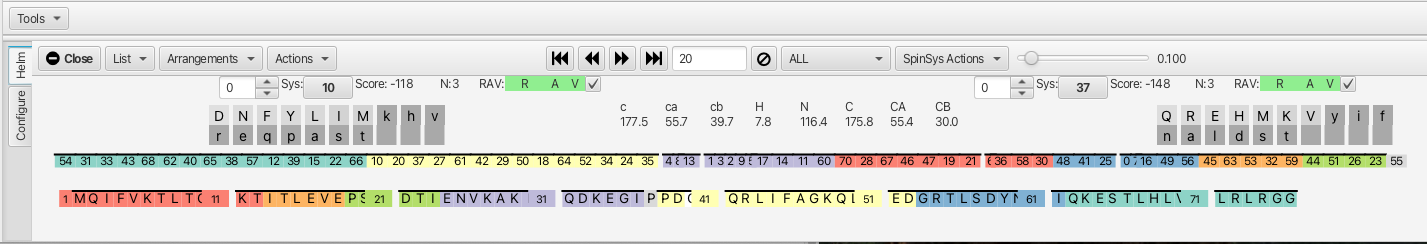
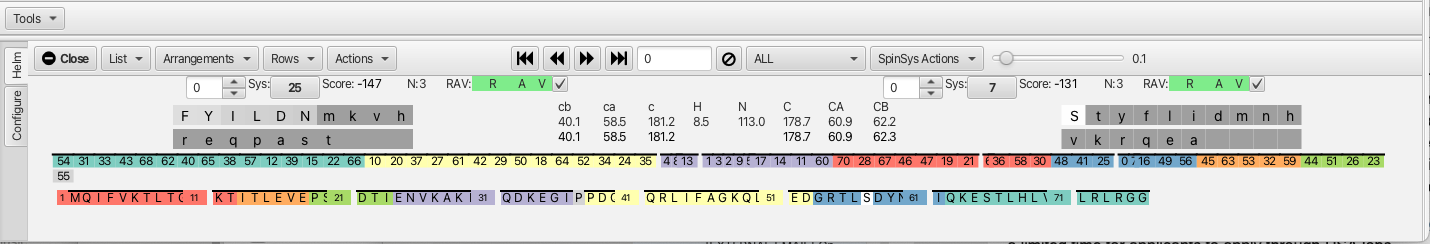
update runabout menus

diff --git a/pages/v1/01.analyst/08.tools/02.runabout/01.menus/docs.md b/pages/v1/01.analyst/08.tools/02.runabout/01.menus/docs.md
@@ -93,24 +93,36 @@ forward and back arrows. Choices are set to the active peak lists being used in 
 	assignment process.
 	1. HC arranges two columns of experiments, left side is HNCOcaCB, HNCOCA, HNCO, right side
 	HNCACB, HNCA, HNCACO with X-axis being the amide proton view of residue *i* and the Y-axis 	gives views of the carbon shifts. The left column show peaks belonging to residue *i*-1 	while the right column show peaks belonging to both residue *i* and *i*-1.
-	2. HCij arranges six columns of experiments using the same views and experiments as the HC
+	2. HCHali provides a new row for experiemnts that provide a H aliphatic dimension such as 
+	HBHANH or HBHAcoNH experiments. A H aliphatic axis is added.
+	3. HCij arranges six columns of experiments using the same views and experiments as the HC
 	arrangement described aove. The leftmost column displays crosspeaks belonging to the
 	spinsystem *i*-1 (HN, CO, CA, CB) whereas the second column from left displays the 	crosspeaks belonging to both residue *i*-1 and residue *i *, both columns based on the 	amide proton shift of residue *i*-1. The middle two columns display similar information
 	but based on the amide proton shift of residue *i*. The rightmost two columns displays
 	crosspeaks belonging to residue *i* as well as residue *i*+1 (residue *j*) based on the
 	chemical shift of the amide proton for residue *j*.
-	3. HCij_CACB arranges six columns as the HCij arrangement but omits the HNCO and HNCACO 
-	experiments so as to concentrate the view on only the CA and CB crosspeaks.
-	4. HCij_CB focuses the view on the HNCOcaCB and the HNCACB experiments.
-	5. HCij_CA focuses the view on the HNCOCA and HNCA experiments.
-	6. HCij_C focuses the view on the HNCO and HNCACO experiments.
+	4. HCHali_hij provides a new row to the HCij arrangement which provides a H aliphatic 
+	chemcial shift axis.
 	7. HCNC affords the same views as in the HC arrangement but supplements each with the 
 	view from the nitrogen shift of residue *i*. This arrangement affords a view where the 
-	notrogen chemical shift allows for separation of crosspeaks that may be overlapped in the
+	nitrogen chemical shift allows for separation of crosspeaks that may be overlapped in the
 	amide proton view.
 	8. HN provides the HN plane centered at the proton and nitrogen shifts for residue *i* from 	the same experiment set as in the HC arrangement.
 	9. HNfull provides an overlay of all of the HN planes for the each experiment. This view
 	is useful for establishing the contour levels and general insoection of the data.
+
+**Rows** Menu
+
+:	The "rows" Menu works in conjunction with the "Arrangements" Menu in providing toggles
+	for selecting the Y axis nucleus choices. The choices add or remove various views allowing
+	the user to simplify or focus on certain views. Choices are:
+
+	1. C toggles on or off any row which has the Y axis set to the carbonyl chemical shift 
+	range.
+	2. Hali toggles on or off any row which has the Y axis set to the aliphatic H chemical
+	shift range.
+	3. CA toggles on or off any row which has the Y axis set to the CA chemcial shift range.
+	4. CB toggles on or off any row which has the Y axis set to the CB chemcial shift range.
 
 **Actions** Menu
 
@@ -138,38 +150,27 @@ forward and back arrows. Choices are set to the active peak lists being used in 
 	deleted from the list. The increase in tolerance value minimizes the risk of erroneously
 	removing peaks that are valid but slightly misalligned.
 
-	4. Assemble: This action will group together peaks from the peak lists that contain the
-	same amide H and N chemical shifts. This effectively determines which peaks in different
-	peak lists belong to the same residue as well as determine which peaks may be inter-
-	residue as opposed to intra-residue for certain peak lists. The peaks are "clustered" 
-	based on the tolerance values set up for each list. Each cluster must also have only one
-	peak from the reference list and this peak number is used as the cluster identifier. The 
-	"Assemble" action also populates a new "spinsystems" entry into the "List" menu. Choosing
-	the spinsystem option n the "List" menu displays a series of letters above each dataset
-	that correspond to the expected correlations for that experiment and whether or not
-	the correct number has been found. A green bar and the number 0 indicate that all expected
-	correlations have been found whereas a red bar under a given correlation (i.e. the cb-1)
-	and the number -1 indicates that the C-beta correlation for the *i*-1 pattern is missing
-	from the HNCACB spectrum for the *i*-1 column. The number may also be positive meaning 
-	RunAboutX has found more than the expected correlatons. Right clicking on any crosspeak
-	brings up a pulldown menu that allows for either opening the peak inspector or gives the
-	best guess as to the pattern identity of the crosspeak, i.e. the CB of residue *i*-1.
-	
+	4. Assemble Spin System: This action will group together peaks from peaklists that contain 
+	the same amide H and N chemical shifts as found in the HNCO experiment. This effectively 
+	determines which peaks in different peak lists belong to the same residue or "cluster"
+
 ![](images/Runabout_spinsystem.png)
 
-	5. Combinations: This action examines each cluster and attempts to assign the cluster to 
+	5. Assign Atom Types: This action examines each cluster and attempts to assign the cluster 	to 
 	a given amino acid type. This action also seeks to determine which cross peaks belong to
 	residue *i* or to residue *i*-1. The conection between clusters based on the identity of 
 	a crosspeak going back to residue *i*-1 is given by a green line between the current 
 	cluster being examined and the previous cluster (to the left). A blue line between cross
 	peaks indicates a connection between a cluster and the successive cluster.
  
-	6. Compare: Compare is the action that seeks to link up clusters in a way that the peaks
+	6. Match Adjacent: This action seeks to link up clusters in a way that the peaks
 	can be assigned to amino acids in the protein sequence. At this point in the analysis the
 	clusters can be more correctly thought of as spinsystems that are linked into the amino 
-	acid sequence. Important aspects of the Helm after the "Compare" action has been taken are
-	shown below:
-	![](images/Runabout_Compare.png)
+	acid sequence. Important aspects of the Helm after the "Match Adjacent" action are taken
+	are shown below:
+
+
+![](images/Runabout_Compare.png)
 
 	The cluster under current inspection is shown in the window (1). In this example it is 
 	cluster 19 and the chemical shifts for the current cluster are given by the capital 
@@ -178,10 +179,10 @@ forward and back arrows. Choices are set to the active peak lists being used in 
 	the arrows or by clicking on any cluster in the linear display of clusters. 
 	The best match on the N-terminal side *i*-1 is
 	given on the left side, in this example cluster 47 (2) and the lower case letters 
-	designating the carbonyl (c) and the ca and cb with the chemcial shifts given for each
+	designating the carbonyl (c) and the ca and cb with the chemical shifts given for each
 	atom (red elipse). The best match for the C-terminal side *i*+1 is given on the right
 	side, in this example cluster 21 (3). The match probability is given by a score which
-	spans +100 to -150 where -150 is the highet probability and +100 very low probability.
+	spans +100 to -150 where -150 is the highest probability and +100 very low probability.
 	For the current cluster the best fit for amino acid spin system is given by the list of 
 	amino acids (4). Amino acids in capital letters have a higher probability of a match
 	for the current cluster spinsystem. The probability is highest for a letter in lighter
@@ -192,7 +193,11 @@ forward and back arrows. Choices are set to the active peak lists being used in 
 	position from all of the experiments where that peak is found. The deviation from the 
 	average is also given. In cluster 47 the *i*-1 ca has a chemical shift of 52.8 ppm that is
 	derived from values from 3 different experiments and has a deviation of 0.2 ppm from the 
-	average.
+	average. The row of chemcial shifts below each atom chemical shift is how well the chemical
+	shift for a given atom match between the *i*-1 and *i* experiments. Chemical shifts that 
+	match exactly show complete agreement between for example the CA shift from the HNcoCA 
+	experiment and the HNCA experiment. If these numbers are different by more than the 
+	specified tolerance for that atom type the lower value appears as magenta.
 	
 ![](images/Runabout_shift.png)
 
@@ -203,12 +208,12 @@ forward and back arrows. Choices are set to the active peak lists being used in 
 	clusters that are either deficient in inter and intra-residue connections or may have too
 	many.  
 
-	1. ALL: Provides a list of all clusters after the "Assemble" action. 
+	1. ALL: Provides a list of all clusters after the "Assemble Spin Systems" action. 
 
 	2. CORRECT: Lists all cluster that contain the correct number of peaks between the *i*-1
 	and *i* clusters.
 
-	3. LONELY: After the "Combinations" action clusters may be created that contain only one
+	3. LONELY: After the "Assign Atom Types" action clusters may be created that contain only one
 	or two peaks in the cluster. These spurious clusters are deemed "lonely" and can be 
 	removed from the cluster list by clicking the circle with the slash.
 	
@@ -217,7 +222,7 @@ forward and back arrows. Choices are set to the active peak lists being used in 
 	4. MISSING:	Lists all clusters that are missing one or more of the inter and intra-residue 
 	connections. 
 
-	5. MISSING_PPM: After the "Combinations" action this menu option lists all clusters that 
+	5. MISSING_PPM: After the "Assign Atom Types" action this menu option lists all clusters that 
 	have missing inter and intra residue connections and lists which chemical shift is missing.
 
 	6. EXTRA: Lists all clusters that contain additional inter or intra-residue connections.
@@ -237,10 +242,62 @@ forward and back arrows. Choices are set to the active peak lists being used in 
 	2. Move to Cluster: Will move a selected peak to another cluster (how to choose the cluster
 	where the peak is being moved to?)
 
-	3. Analyze: Performs the action that "Combinations" provides. Use "Analyze" to correct a
+	3. Analyze: Performs the action that "Assign Atom Types" provides. Use "Analyze" to correct a
 	cluster if the atom patterns have been missassigned. 
 
-	4. GraphMatching:
+	4. GraphMatching: Opens a popup window that contains controls for automatically assigning
+	the clusters and updating the Atom Table with chemical shifts for each residue. The popup
+	appears as shown below:
+
+![](images/Runabout_GraphMatching2.png)
+
+	The controls along the top are:
+
+	1. Match: Begins the process of autoassigning using the specified parameters.
+
+	2. Stop: Once Matching begins this control allows the user to stop the process prior to 
+	the maximum number of tries.
+
+	3. Details: 
+
+	4. Reset: Resets the results and allows the user to change parameters for another try.
+
+	5. Assign: Updates the Atom Table with chemical shifts for each residue assigned. Updates
+	the Helm to display the clusters that have been assigned to the residues.
+	After a successful matching the popup looks as follows:
+
+![](images/Runabout_GraphMAtched_Success.png)
+
+	Parameters for the Graph Matcher are as follows:
+
+	a. N Tries: The total number of tries for the genetic algorithm
+
+	b. Population Size:
+
+	c. NGenerations:
+
+	d. Mutation Rate:
+
+	e. Crossover Rate:
+
+	f. Fraction Match Requirement:
+
+	g. N Steady:
+
+	h. SDev Ratio:
+
+	i. Max Age:
+
+	j. Elite Number:
+
+	A check box for selection of "Mutation Profile" is provided which toggles on or off the 
+	selection of:
+
+	The progress of the assignment process can be monitored using the "Status" values which
+	reports on each "Try" of the total "N Tries" parameter and within each try the "Gen" or 
+	generation being evaluated. The score for the current generation being evaluated is given
+	in the "Current" fierld while the "Best" gives the best score (most negative number) to
+	that point in the analysis.
 
 	5. Trim: This tool looks at each cluster and all peaks associated with it and determines 
 	how many peaks are expected to appear for each cluster for a given experiment type (i.e.
@@ -293,9 +350,8 @@ forward and back arrows. Choices are set to the active peak lists being used in 
 	a dashboard. Several of the information functions have already been discussed in the 
 	"Actions" Compare section. 
 
-	1) Assemble and Combinations: The dashboard appears as follows after the "Assemble", 
-	"Combinations" and "Compare" actions have been taken.
-	
+	1) Assemble and Combinations: The dashboard appears as follows after the "Assemble Spin
+	Systems", "Assign Atom Types" and "Match Adjacent" actions have been taken.	
 ![](images/Runabout_dashboard_Assemble.png)
 
 	The clusters have been "assembled" and appear in a linear row. The check boxes adjacent to